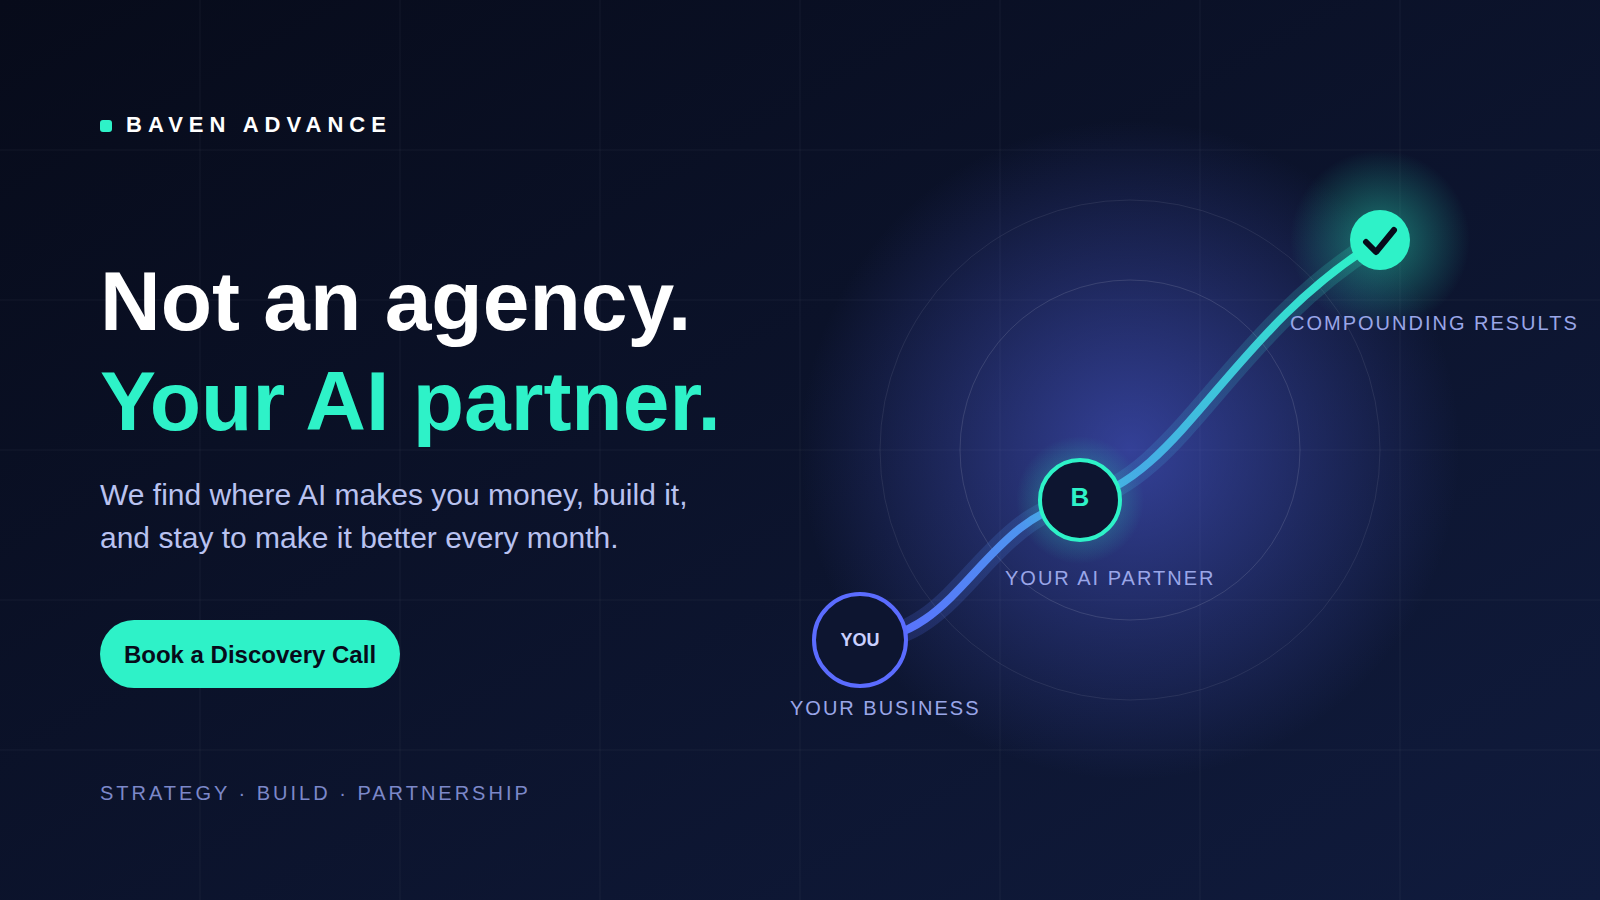
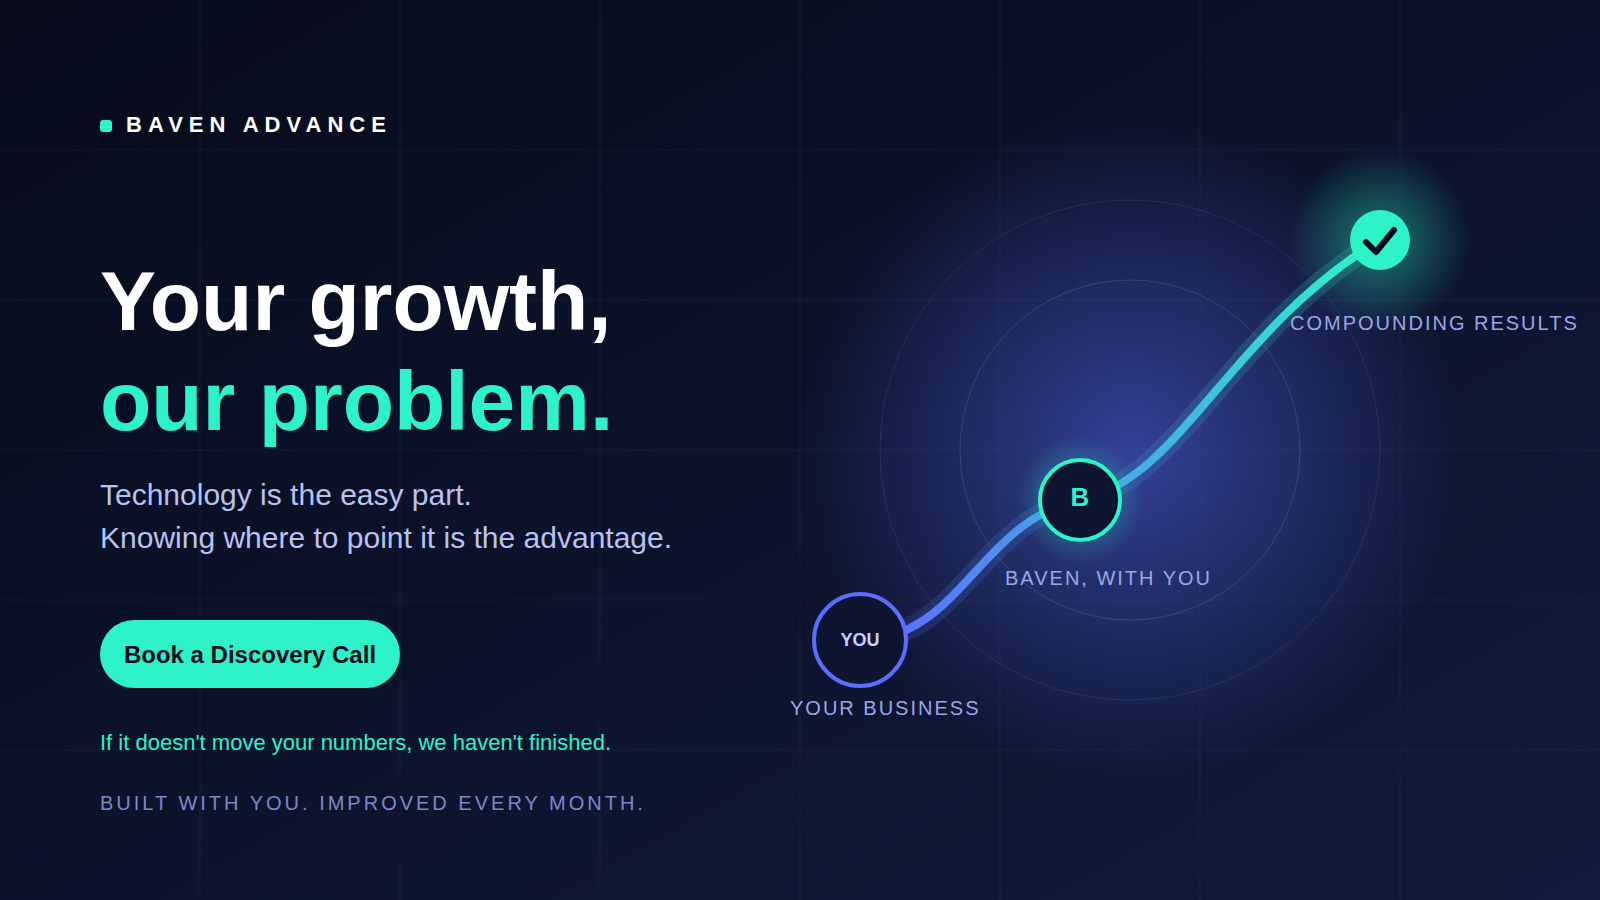
Apply approved hero copy with implied partner positioning
Claude-Session: https://claude.ai/code/session_01Hwh6stgVbYWukPhBjK5cF8

diff --git a/brand/baven-advance-tone-of-voice.md b/brand/baven-advance-tone-of-voice.md
@@ -179,3 +179,31 @@ leverage, synergy, cutting-edge, revolutionary, game-changing, solutions, state-
 3. Is the outcome before the technology?
 4. Could a plumber, a lender and a clinic owner all understand it on first read?
 5. Is every claim real or clearly placeholdered?
+
+---
+
+## 9. Approved hero copy (use verbatim)
+
+| Slot | Copy |
+|---|---|
+| **Hero headline** | Your growth, our problem. |
+| **Subline** | Technology is the easy part. Knowing where to point it is the advantage. |
+| **Supporting line** | Built with you. Improved every month. |
+| **Trust line** | If it doesn't move your numbers, we haven't finished. |
+| **CTA** | Book a Discovery Call |
+
+The partner positioning is **implied, never stated**. Do not use the phrases "AI partner" or "not an agency" in headlines. It shows through four things:
+
+1. **Shared ownership.** We put ourselves on the hook for the result ("our problem", "we haven't finished").
+2. **Continuity.** We stay after launch ("improved every month").
+3. **Judgment.** We know where to point the technology and where not to.
+4. **Proximity.** We work with you ("built with you").
+
+### Implied-positioning bank (use across the site)
+- **Ownership:** "Your pipeline is our scoreboard." · "We win when you book more, not when we send an invoice."
+- **Continuity:** "Launch is the starting line." · "We build it. Then we stay." · "Month three should beat month one."
+- **Proximity:** "The AI team you didn't have to hire." · "Call us before you buy any AI tool."
+- **Honesty:** "We'll tell you what not to automate." · "Sometimes the best AI decision is not to build."
+- **Specialism:** "Lenders. Clinics. Trades. It's all we do." · "We don't learn your industry on your dime."
+- **Reframe:** "Nobody wants AI. They want more booked jobs."
+- **Vocabulary swaps:** "How we work with you" (not Services) · "Start the conversation" (not Get a quote).
